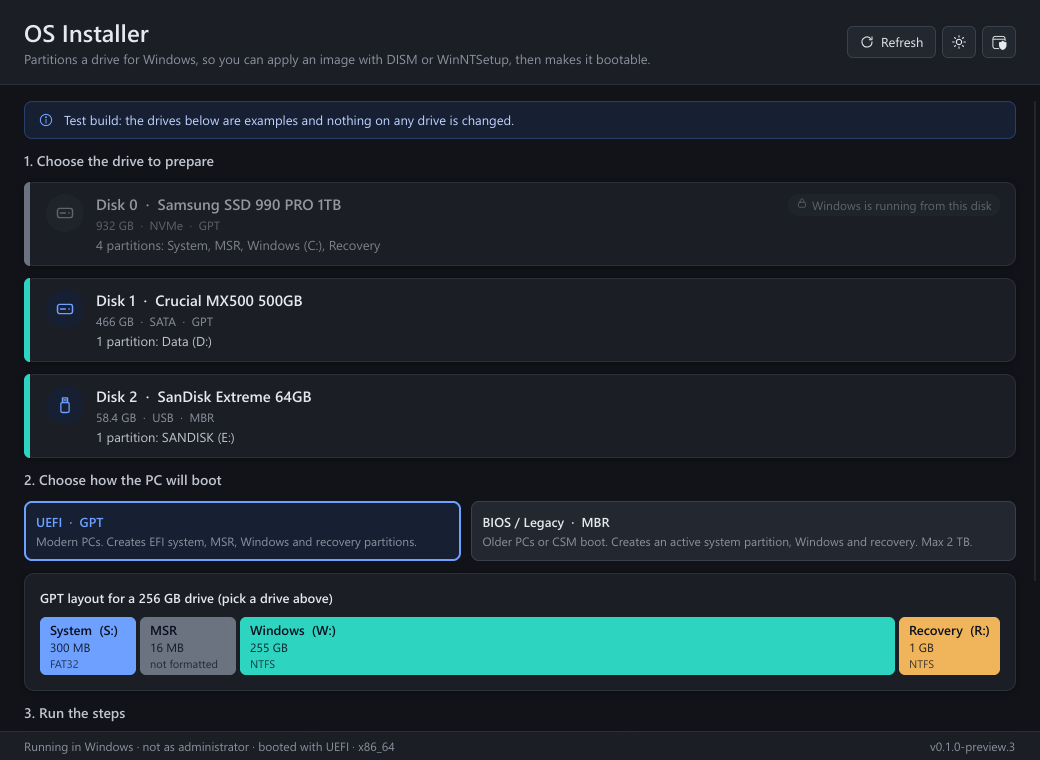
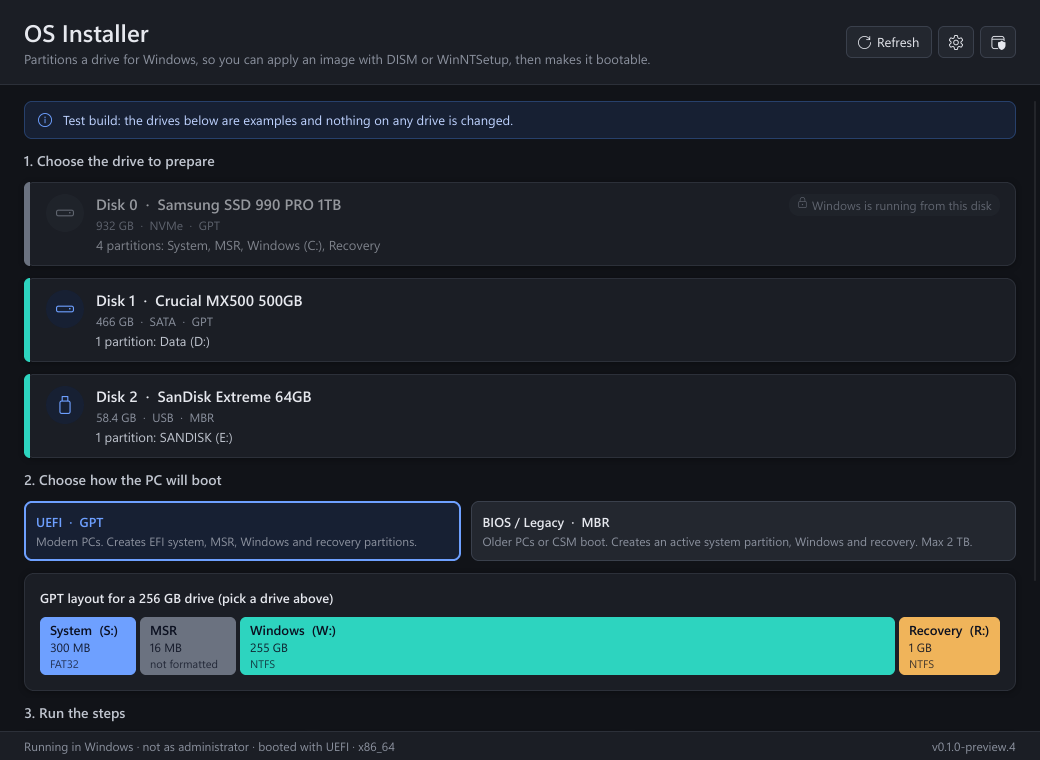
Describe the Settings window; update screenshots for 0.1.0-preview.4

diff --git a/README.md b/README.md
@@ -56,11 +56,13 @@ Partitioning a drive needs administrator rights. When the app is not running as 
 
 ## Light and dark
 
-The window follows Windows' light or dark app mode, and switches when you change it. The button in the header switches by hand.
+By default the window follows Windows' light or dark app mode, and switches when you change it. To keep it light or dark, open **Settings** with the cog button at the top right (or press F9) and choose a theme. The choice is remembered.
 
 ![dark mode screenshot](docs/screenshot-dark.png)
 
-In WinPE:
+![Settings](docs/settings.png)
+
+In WinPE, with Settings open:
 
 ![running in WinPE](docs/winpe.png)
 
@@ -74,4 +76,4 @@ Found a bug or have an idea? [Open an issue](https://github.com/WelFedTed/os-ins
 
 ---
 
-OS Installer is free to download and use. It is not open source; the source code is not published. It is built with [Slint](https://slint.dev). Copyright © 2026 WelFedTed. All rights reserved.
+OS Installer is free to download and use. It is not open source; the source code is not published. It is built with [Slint](https://slint.dev), and carries the Cascadia Mono font (SIL Open Font License). Copyright © 2026 WelFedTed. All rights reserved.
